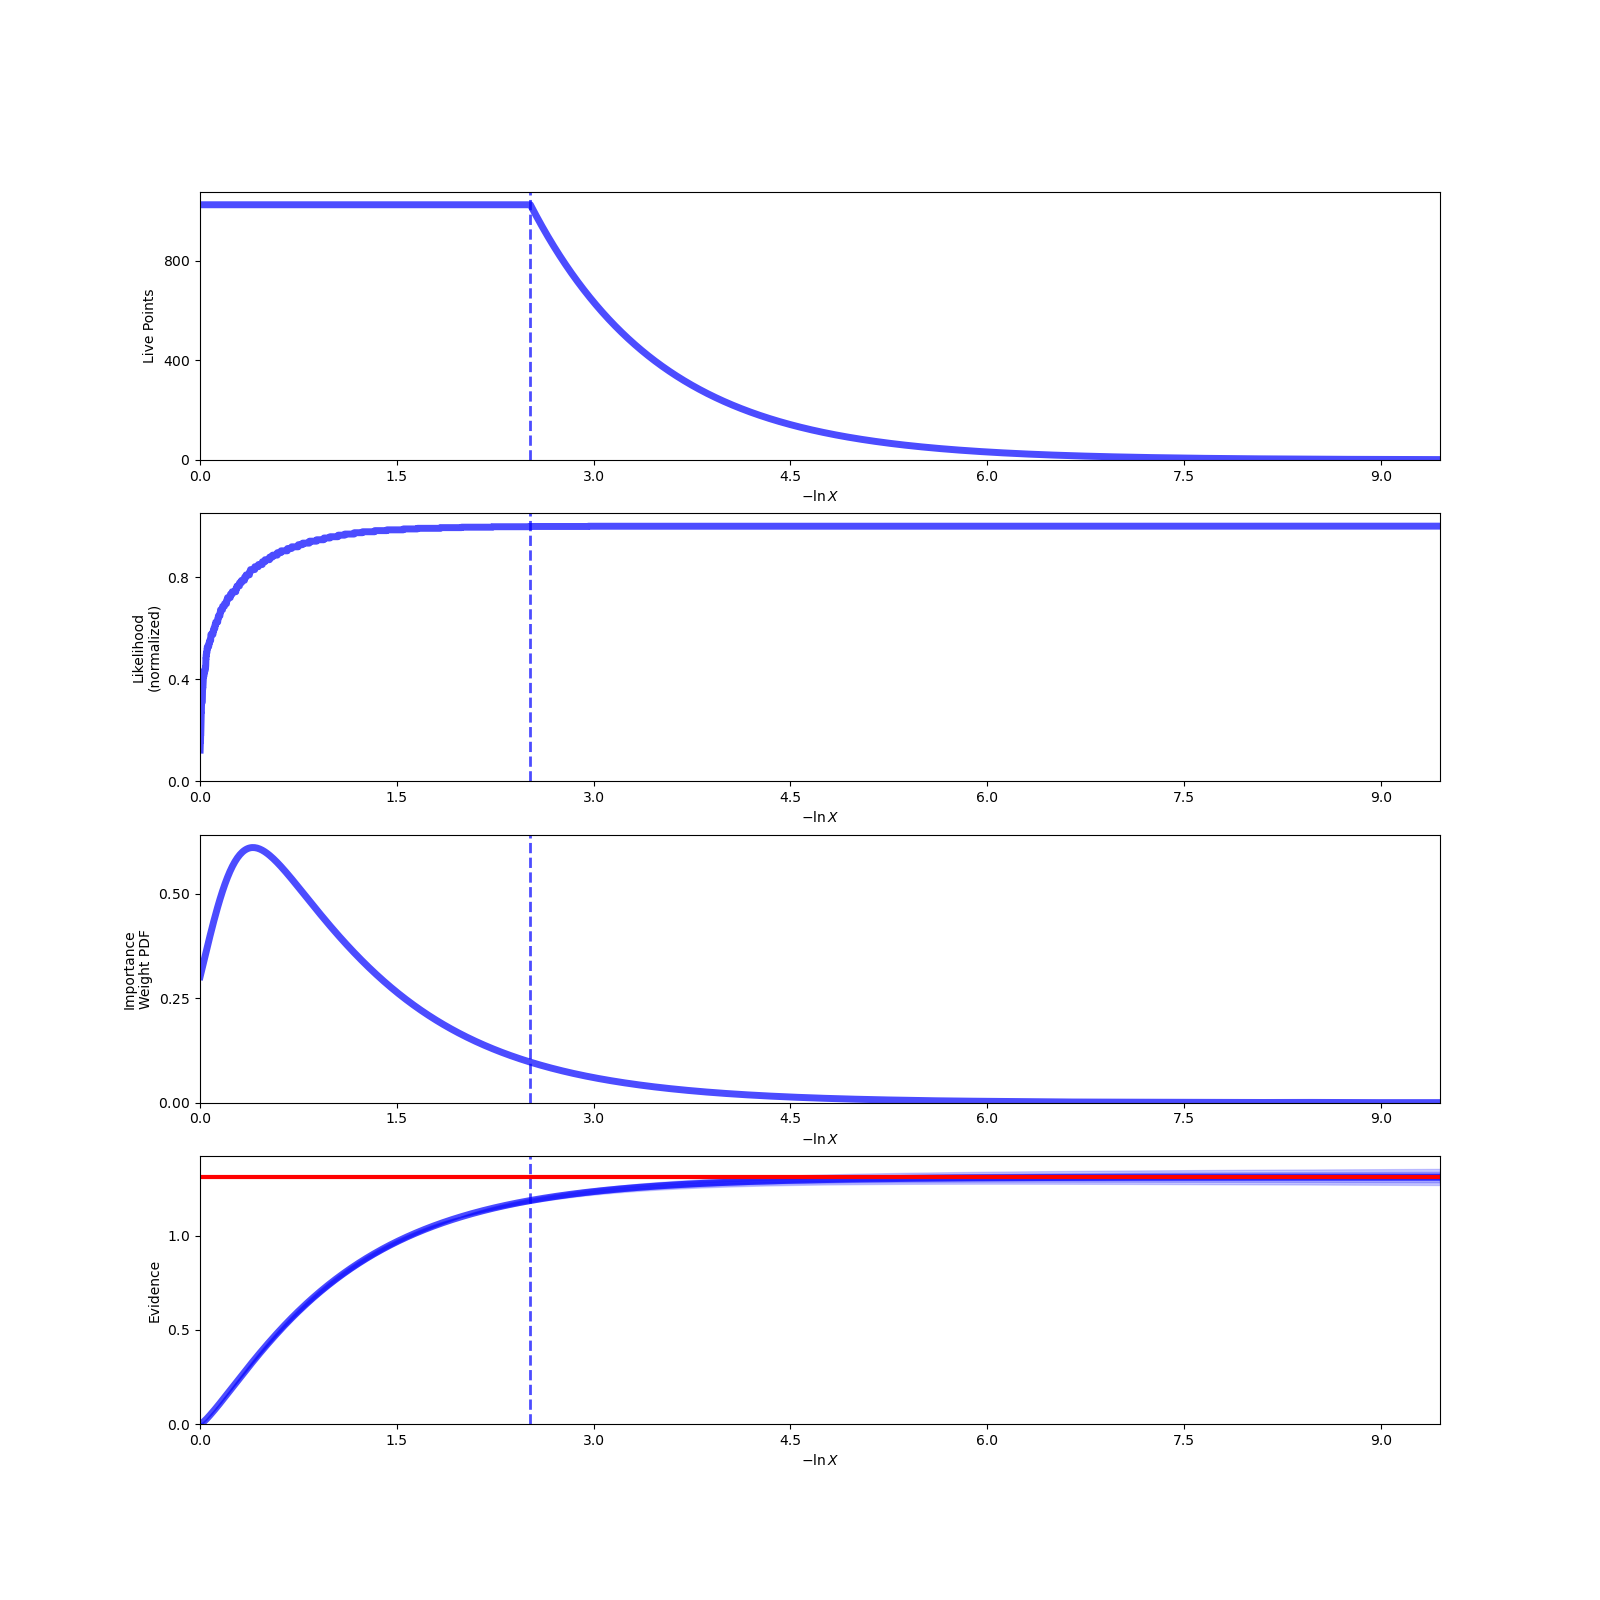
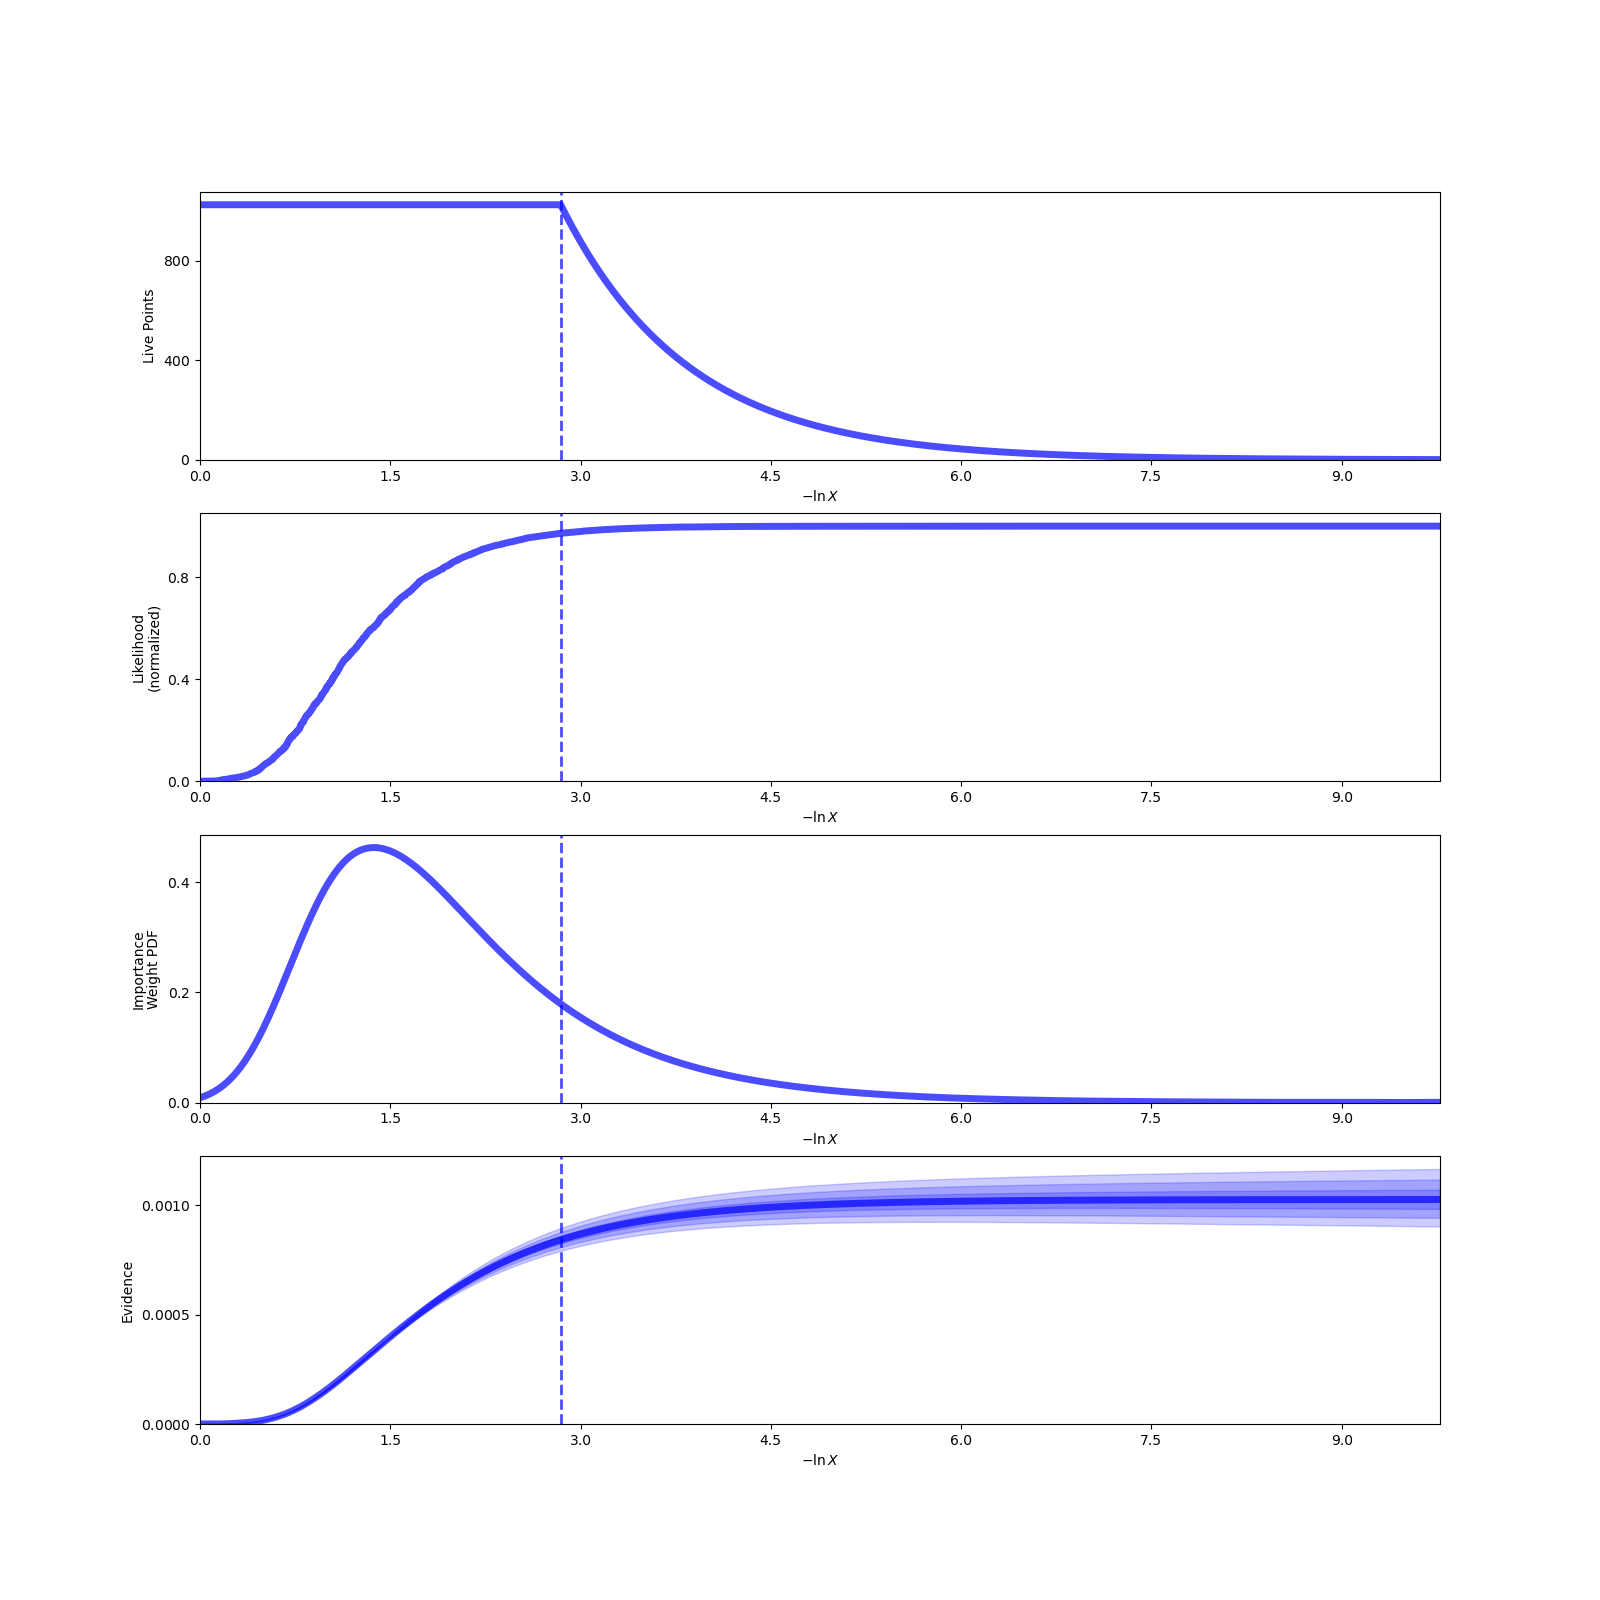
Can't reconcile proper normalisation of edisp
Problem is that when I normalize the 'energy dispersion' the nested sampler starts giving incorrect values for the marginalisations

diff --git a/tester.py b/tester.py
@@ -9,80 +9,112 @@ from dynesty import plotting as dyplot
 import math
 from utils import axis, eaxis_mod
 print('\n')
+#Constant ratio offset between direct and nested no jacob= 0.30989914742863683
+# firstratio = marglistint/np.exp(res['logz'][-1]) = 0.30989914742863683
+# with jacob = 0.008514387720831325
 
+axis = np.linspace(-2,2,1000)
+binwidth = axis[1]-axis[0]
+
+logbinwidth = np.log(binwidth)
+print("binwidthstuff: ", binwidth, logbinwidth)
 
 
 nlive = 1024
-dlogz = 0.1
+dlogz = 0.2
 likelihoodspread = 0.5
-priorspread = 0.3
-priorcentre = 0.5
+priorspread = 4
+priorcentre = -2
 ndim = 1
-measuredval = 0.0
+measuredval = 0.6
+measuredval2 = 0.3
+eaxis_mod = 0.
 
 
+def energydisp(erecon, etrue):
+    func = stats.norm(loc=etrue, scale=likelihoodspread)
+    val = func.logpdf(erecon)- np.log(integrate.simps(y=func.pdf(axis),x=axis))
+    return val
 
-energydisp = lambda erecon, etrue: stats.norm(loc=etrue, scale=likelihoodspread).logpdf(erecon)
+
 
 def makedist(centre=priorcentre, spread =priorspread):
-    sampledist = lambda x: stats.norm(loc=centre, scale=spread).logpdf(x)
+    func = stats.uniform(loc=centre, scale=spread)
+
+    sampledist = lambda x: func.logpdf(x) - special.logsumexp(func.logpdf(axis)+logbinwidth)
     return sampledist 
 
 def makeloglike(measured=measuredval):
     def loglike(x):
-        return float(energydisp(measured, x)+np.log(np.power(10.,x)))
+        return float(energydisp(measured, x))
     return loglike
 
 # Define our uniform prior via the prior transform.
 
 def makeptform(centre=priorcentre):
     sampledist = makedist(priorcentre)
+    # def ptform(u):
+    #     logpmf = sampledist(axis)
+    #     logpmf = logpmf - special.logsumexp(logpmf)
+    #     pmf = np.exp(logpmf)
+    #     cdf = np.cumsum(pmf)
+    #     try:
+    #         index = np.searchsorted(cdf, u[0])
+    #         u[0] = axis[index]
+    #     except:
+    #         if index>=axis.shape[0]-1:
+    #             u[0] = axis[-1]
+    #         else:
+    #             raise Exception("Something is wrong with the uniform sampling cube in tester.py.")
+        
+    #     return u
+
     def ptform(u):
-        logpmf = sampledist(axis)
-        logpmf = logpmf - special.logsumexp(logpmf)
-        pmf = np.exp(logpmf)
-        cdf = np.cumsum(pmf)
-        index = np.searchsorted(cdf, u[0])
-        u[0] = axis[index]
+        u[0] = 4*u[0]-2
         return u
     return ptform
 
-endsample = 1
-# Sample from our distribution.
-sampler = dynesty.NestedSampler(makeloglike(measuredval), makeptform(priorcentre), ndim,
-                                bound='single', nlive=nlive)
-sampler.run_nested(dlogz=dlogz)
-res = sampler.results
-
-marglist = energydisp(measuredval, axis)+makedist(priorcentre)(axis)+eaxis_mod
-marglistint = np.exp(special.logsumexp(marglist))*(axis[1]-axis[0])
-plt.figure()
-histvals = plt.hist(res["samples"][:-endsample], bins=int(axis.shape[0]/5))
-plt.plot(axis, np.exp(marglist)/np.max(np.exp(marglist))*np.max(histvals[0]))
-plt.show()
-
-print(np.exp(res['logz'][-1]), marglistint)
-
-
-
-
-
 
 # Sample from our distribution.
 sampler = dynesty.NestedSampler(makeloglike(measuredval), makeptform(priorcentre), ndim,
-                                bound='single', nlive=nlive)
+                                bound='single', nlive=nlive, logl_args=None)
 sampler.run_nested(dlogz=dlogz)
 res = sampler.results
 
-marglist = energydisp(measuredval, axis)+makedist(priorcentre)(axis)+eaxis_mod
-marglistint = np.exp(special.logsumexp(marglist))*(axis[1]-axis[0])
+marglist = energydisp(measuredval, axis) + makedist(priorcentre)(axis) + logbinwidth
+marglistint = np.exp(special.logsumexp(marglist))
 plt.figure()
-histvals = plt.hist(res["samples"][:-endsample], bins=int(axis.shape[0]/5))
+histvals = plt.hist(res["samples"], bins=int(axis.shape[0]/5))
 plt.plot(axis, np.exp(marglist)/np.max(np.exp(marglist))*np.max(histvals[0]))
 plt.savefig("NestedSampling_vs_DirectIntegration.png")
 plt.show()
 
-print(np.exp(res['logz'][-1]), marglistint)
+print(np.exp(res['logz'][-1]), marglistint, marglistint/np.exp(res['logz'][-1]))
+lnz_truth = np.log(marglistint)# analytic evidence solution
+fig, axes = dyplot.runplot(res, lnz_truth=lnz_truth)
+plt.savefig('ConvergencePlot.png')
+plt.show()
+plt.close()
+print('\n\n')
+
+
+
+
+# Sample from our distribution.
+sampler = dynesty.NestedSampler(makeloglike(measuredval2), makeptform(priorcentre), ndim,
+                                bound='single', nlive=nlive)
+sampler.run_nested(dlogz=dlogz)
+res = sampler.results
+
+marglist = energydisp(measuredval2, axis) + makedist(priorcentre)(axis) + logbinwidth
+marglistint = np.exp(special.logsumexp(marglist))
+plt.figure()
+histvals = plt.hist(res["samples"], bins=int(axis.shape[0]/5))
+plt.plot(axis, np.exp(marglist)/np.max(np.exp(marglist))*np.max(histvals[0]))
+plt.savefig("NestedSampling_vs_DirectIntegration.png")
+plt.show()
+
+print(np.exp(res['logz'][-1]), marglistint, marglistint/np.exp(res['logz'][-1]))
 lnz_truth = np.log(marglistint)# analytic evidence solution
 fig, axes = dyplot.runplot(res, lnz_truth=lnz_truth)
 plt.savefig('ConvergencePlot.png')
